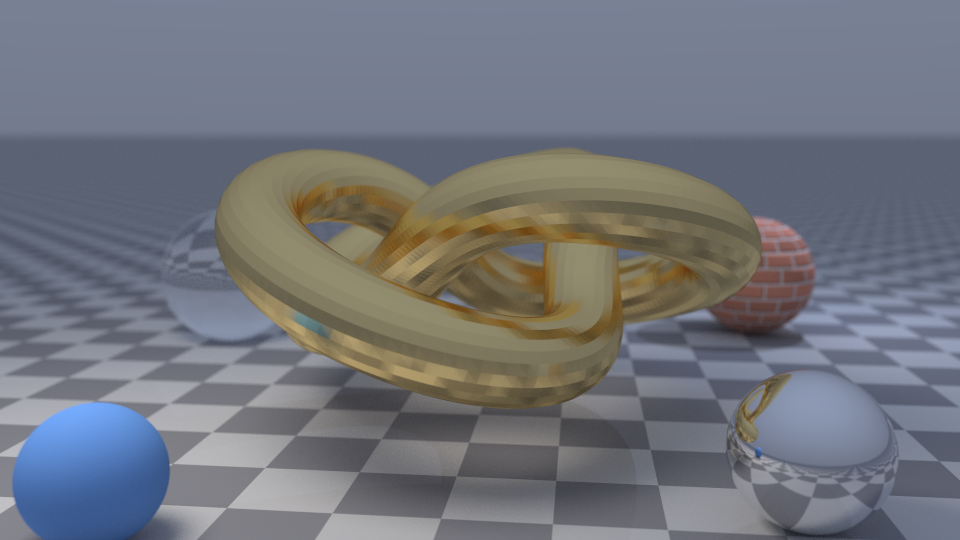
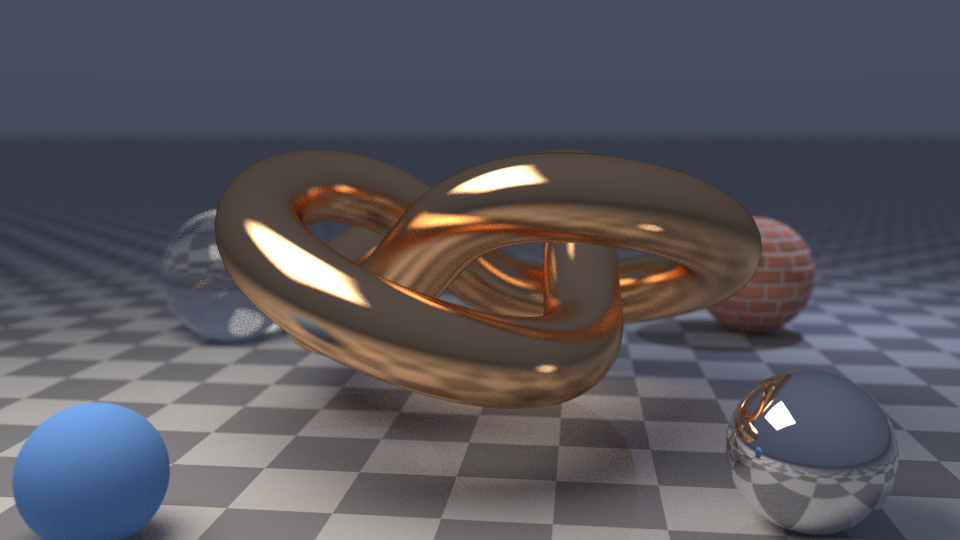
Re-render hero_knot with smooth shading; add flat-vs-smooth comparison
- renders/hero_knot.png: smooth-shaded copper knot, 960x540, 512 spp
- renders/knot_flat_vs_smooth.png: the same scene and settings with
  "smooth": false and true, full frame plus a 2.4x crop
- README and docs/FIXES.md: smooth shading feature and study notes
  (shading vs geometric normal, barycentric interpolation, area-weighted
  vertex normals), the "smooth" scene flag, the new test, and the
  end-to-end BVH timing re-measured on the updated scene (0.44 s vs
  111.0 s, byte-identical output)

Prepared with Claude Code for review.

diff --git a/README.md b/README.md
@@ -21,7 +21,9 @@ What is implemented, and where:
   optional tangent-space normal map, metal with fuzz, dielectric (Snell refraction, total internal
   reflection, Schlick Fresnel), emissive.
 - **Geometry** (`src/geometry/`): spheres, infinite planes, triangles (Moller-Trumbore), and
-  Wavefront OBJ meshes loaded as triangles (flat shaded).
+  Wavefront OBJ meshes loaded as triangles, flat or smooth shaded. Smooth shading interpolates
+  per-vertex normals (the file's `vn`, or area-weighted face averages) with the hit's barycentric
+  coordinates; the geometric normal is kept for front/back-face decisions.
 - **Lights** (`src/core/light.cpp`): point lights and rectangular area lights; area lights can be
   given visible geometry.
 - **Acceleration** (`src/acceleration/`): bounding volume hierarchy built with a 16-bin surface
@@ -39,7 +41,7 @@ What is implemented, and where:
 
 ### Beyond the book
 
-Planes and Moller-Trumbore triangles, OBJ loading, JSON scenes, point and area lights with
+Planes and Moller-Trumbore triangles, OBJ loading with smooth shading, JSON scenes, point and area lights with
 next-event estimation, normal mapping with per-primitive tangent frames, a binned-SAH flat BVH with
 a brute-force equivalence test and a benchmark, OpenMP rendering with deterministic per-pixel RNG
 streams, Russian roulette, a headless CLI with progressive snapshots, a dependency-free PNG writer,
@@ -50,11 +52,15 @@ the interactive progressive viewer, and a WebAssembly build.
 | | |
 |---|---|
 | ![Cornell box](renders/hero_cornell.png) | ![Torus knot](renders/hero_knot.png) |
-| Cornell box: diffuse walls with colour bleeding, glass sphere, gold sphere, visible area light. 640x640, 1024 spp. The remaining bright speckles are caustic paths (wall, then glass or metal, then light), which this integrator finds only by chance (no MIS). | 17,280-triangle torus knot (gold, fuzz 0.12) in the BVH, glass, mirror and normal-mapped brick spheres, depth of field. 960x540, 512 spp. The knot is flat shaded, so its facets show. |
+| Cornell box: diffuse walls with colour bleeding, glass sphere, gold sphere, visible area light. 640x640, 1024 spp. The remaining bright speckles are caustic paths (wall, then glass or metal, then light), which this integrator finds only by chance (no MIS). | 17,280-triangle torus knot in the BVH, smooth shaded, brushed copper (fuzz 0.15); glass, mirror and normal-mapped brick spheres, depth of field. 960x540, 512 spp. Copper speckles on the floor are caustics (floor, then metal, then light). |
 
 The materials scene at the top shows Lambertian, normal-mapped brick, glass, gold and chrome
 spheres, two emissive spheres, a checker floor and depth of field (960x540, 1024 spp).
 `renders/progressive.mp4` shows one view converging from 1 to 256 samples per pixel.
+
+Flat vs smooth shading of the same knot (left: face normals, right: interpolated vertex normals):
+
+![Flat vs smooth shading](renders/knot_flat_vs_smooth.png)
 
 Bug fixes on this branch, with before/after renders and the maths behind each one, are written up
 in [docs/FIXES.md](docs/FIXES.md).
@@ -79,9 +85,10 @@ point.
 | 524,288 | 1,071 | 570,307 | 1.54 | 1.39 | 0.00013 | 11,585x |
 
 Brute force used 16,384 rays up to 8,192 triangles, then 12,207 / 3,051 / 762 rays; its hit
-distances matched the BVH's for every ray. End to end, `hero_knot.json` (17,285 objects) at
-320x180 and 4 spp rendered in 0.48 s with the BVH and 158.7 s with `--no-bvh` (about 330x), and
-the two output files were byte-identical.
+distances matched the BVH's for every ray. End to end, `hero_knot.json` (17,287 objects,
+smooth-shaded knot) at 320x180 and 4 spp rendered in 0.44 s with the BVH and 111.0 s with
+`--no-bvh` (about 250x), and the two output files were byte-identical. (The earlier flat, gold
+version of the scene: 0.48 s vs 158.7 s.)
 
 ## Building
 
@@ -93,14 +100,14 @@ system GLM is found). GLFW and OpenGL are only needed for the viewer; OpenMP is 
 ```bash
 cmake -S . -B build -DCMAKE_BUILD_TYPE=Release
 cmake --build build --config Release
-ctest --test-dir build -C Release        # BVH vs brute-force test
+ctest --test-dir build -C Release        # BVH vs brute force, smooth normals
 ```
 
 Targets:
 
 - `raytracer_cli`: headless renderer, always built
 - `raytracer`: GLFW viewer, built only when GLFW and OpenGL are found
-- `bvh_test`, `bvh_bench`
+- `bvh_test`, `smooth_normals_test` (both run by `ctest`), `bvh_bench`
 
 On macOS: `brew install cmake glfw` (and `libomp` for OpenMP). On Windows with vcpkg:
 `vcpkg install glfw3` and pass `-DCMAKE_TOOLCHAIN_FILE=<vcpkg>/scripts/buildsystems/vcpkg.cmake`.
@@ -154,7 +161,7 @@ P save a PPM screenshot, Esc quit.
     { "type": "plane", "point": [0, 0, 0], "normal": [0, 1, 0],
       "material": { "type": "lambertian", "albedo": [0.7, 0.7, 0.7] } },
     { "type": "obj", "file": "assets/models/torus_knot.obj", "scale": 1, "translate": [0, 1, 0],
-      "material": { "type": "metal", "albedo": [1, 0.76, 0.33], "fuzz": 0.1 } }
+      "smooth": true, "material": { "type": "metal", "albedo": [0.92, 0.56, 0.3], "fuzz": 0.15 } }
   ],
   "lights": [
     { "type": "area", "center": [0, 1.98, -1], "u": [0.8, 0, 0], "v": [0, 0, 0.6],
@@ -164,7 +171,8 @@ P save a PPM screenshot, Esc quit.
 }
 ```
 
-- Primitives: `sphere`, `plane`, `triangle` (`v0`, `v1`, `v2`), `obj`.
+- Primitives: `sphere`, `plane`, `triangle` (`v0`, `v1`, `v2`), `obj` (`file`, `scale`,
+  `translate`, `smooth`: true for interpolated vertex normals, default false).
 - Materials: `lambertian` (`albedo` or `texture`), `textured_lambertian` (`albedo_texture`,
   optional `normal_map`, `normal_strength`), `metal` (`albedo`, `fuzz`), `dielectric` (`ir`),
   `emissive` (`emission`). A texture is an image path or
@@ -191,7 +199,7 @@ src/
   rendering/     integrator, renderer, progressive renderer, framebuffer, image writers
   cli/           headless renderer
   viewer/        GLFW window and camera controls
-tests/           bvh_test (correctness), bvh_bench (timing)
+tests/           bvh_test, smooth_normals_test (correctness), bvh_bench (timing)
 scenes/          JSON scenes
 assets/          generated textures and mesh
 tools/           texture/mesh generators, WebAssembly build
@@ -204,7 +212,8 @@ renders/         images and video
 ## Limitations
 
 - No multiple importance sampling: caustics and small emitters that are not lights are noisy.
-- Triangles are flat shaded; `Mesh` is a stub; OBJ normals and UVs are ignored.
+- `Mesh` is a stub (OBJ files load as individual triangles); OBJ UVs are ignored. Smooth shading
+  can show the usual "shadow terminator" darkening on very coarse meshes.
 - Planes and spheres use different bitangent orientations, so normal maps on planes have their
   green channel flipped.
 - The viewer uses a fixed default camera instead of the scene file's camera.

diff --git a/docs/FIXES.md b/docs/FIXES.md
@@ -28,6 +28,7 @@ Commits, oldest first:
 | `ab74a56` | Add Russian roulette path termination |
 | `c1ddbc5` | Implement a binned-SAH BVH and use it for scene intersection |
 | `42267be` | Parallelize rendering with OpenMP and give each thread its own RNG |
+| `2e10902` | Add smooth shading for triangle meshes (per-vertex normals) |
 
 ---
 
@@ -307,8 +308,8 @@ brute force must agree on hit/miss, hit distance and which primitive was hit. Re
 
 **Timing:** see the table in the README (`bvh_bench`). Headline numbers (single thread, wasm):
 at 1,058 triangles the SAH BVH casts rays 66x faster than brute force, at 131,072 triangles
-3,513x faster. A full render of the 17,285-object knot scene at 320x180, 4 spp took 0.48 s with
-the BVH and 158.7 s without, and both runs wrote byte-identical images. SAH beats the midpoint
+3,513x faster. A full render of the 17,287-object knot scene at 320x180, 4 spp took 0.44 s with
+the BVH and 111.0 s without, and both runs wrote byte-identical images. SAH beats the midpoint
 split by 8-35% on these meshes, except the 128-triangle one where the midpoint tree is slightly faster.
 
 Why SAH: the midpoint split only looks at where centroids are; SAH also counts how big the
@@ -342,10 +343,55 @@ it builds.
 
 ---
 
-## 9. Known remaining issues
+## 9. Smooth shading for triangle meshes (added after review)
 
-- `Mesh::hit` is still a TODO (OBJ files load as individual triangles instead), and triangles are
-  flat shaded.
+**Problem:** every triangle used its face normal, so a curved mesh looked faceted. On the
+17,280-triangle torus knot the facets read as stripes, because neighbouring faces reflect
+noticeably different directions in a metal.
+
+**Shading normal vs geometric normal.** A triangle now has two normals at a hit:
+
+- the *geometric* normal, cross(v1 - v0, v2 - v0) normalised. It is the real surface, so it
+  decides front/back face (which side of the glass you are on) and whether a direction is above
+  the surface (`HitRecord::geometric_normal`);
+- the *shading* normal, interpolated from the three vertex normals (`HitRecord::normal`). The
+  materials and the BRDF use it, so the lighting varies smoothly across the face.
+
+**Interpolation.** Moller-Trumbore already returns barycentric coordinates (u, v) with
+P = (1 - u - v) * v0 + u * v1 + v * v2. The shading normal uses the same weights:
+
+    n = normalize((1 - u - v) * n0 + u * n1 + v * n2)
+
+It is then flipped, if needed, to the same side as the geometric normal (files sometimes wind
+their faces the other way from their `vn` normals), and finally to face the incoming ray.
+
+**Where vertex normals come from.** If the OBJ has `vn` entries for every face corner, those are
+used. Otherwise each vertex gets the area-weighted average of the faces around it:
+
+    n_vertex = normalize( sum over faces of cross(b - a, c - a) )
+
+The cross product's length is twice the triangle's area, so summing the unnormalised cross
+products weights each face by its area: a big face influences the normal more than a sliver.
+
+**Why keep the geometric normal for some tests.** The interpolated normal can tilt past the real
+surface near silhouettes. If a reflected ray were only checked against the shading normal, it could
+point into the mesh and pass through it. Metal therefore absorbs rays below either normal, and
+direct lighting skips lights below the geometric normal.
+
+The scene flag is `"smooth": true` on an `obj` object (default false, so the old renders are
+unchanged; a flat render after this change is byte-identical to one before it).
+`tests/smooth_normals_test.cpp` checks the area weighting on an octahedron and a two-face case,
+that the interpolated normal matches the barycentric expectation on a tessellated sphere (flat
+normals are off by up to 12 degrees there), the inside/outside orientation, and the OBJ flag with
+and without `vn`.
+
+![Flat vs smooth shading](../renders/knot_flat_vs_smooth.png)
+
+---
+
+## 10. Known remaining issues
+
+- `Mesh::hit` is still a TODO (OBJ files load as individual triangles instead).
 - The GLFW viewer's `SceneGallery` ignores the camera in the scene file and uses a fixed default
   camera. The viewer was not rebuilt or run on this branch (no GLFW/MSVC on the machine used).
 - Tangent frames are not consistent between primitives: on spheres the bitangent points toward -v
